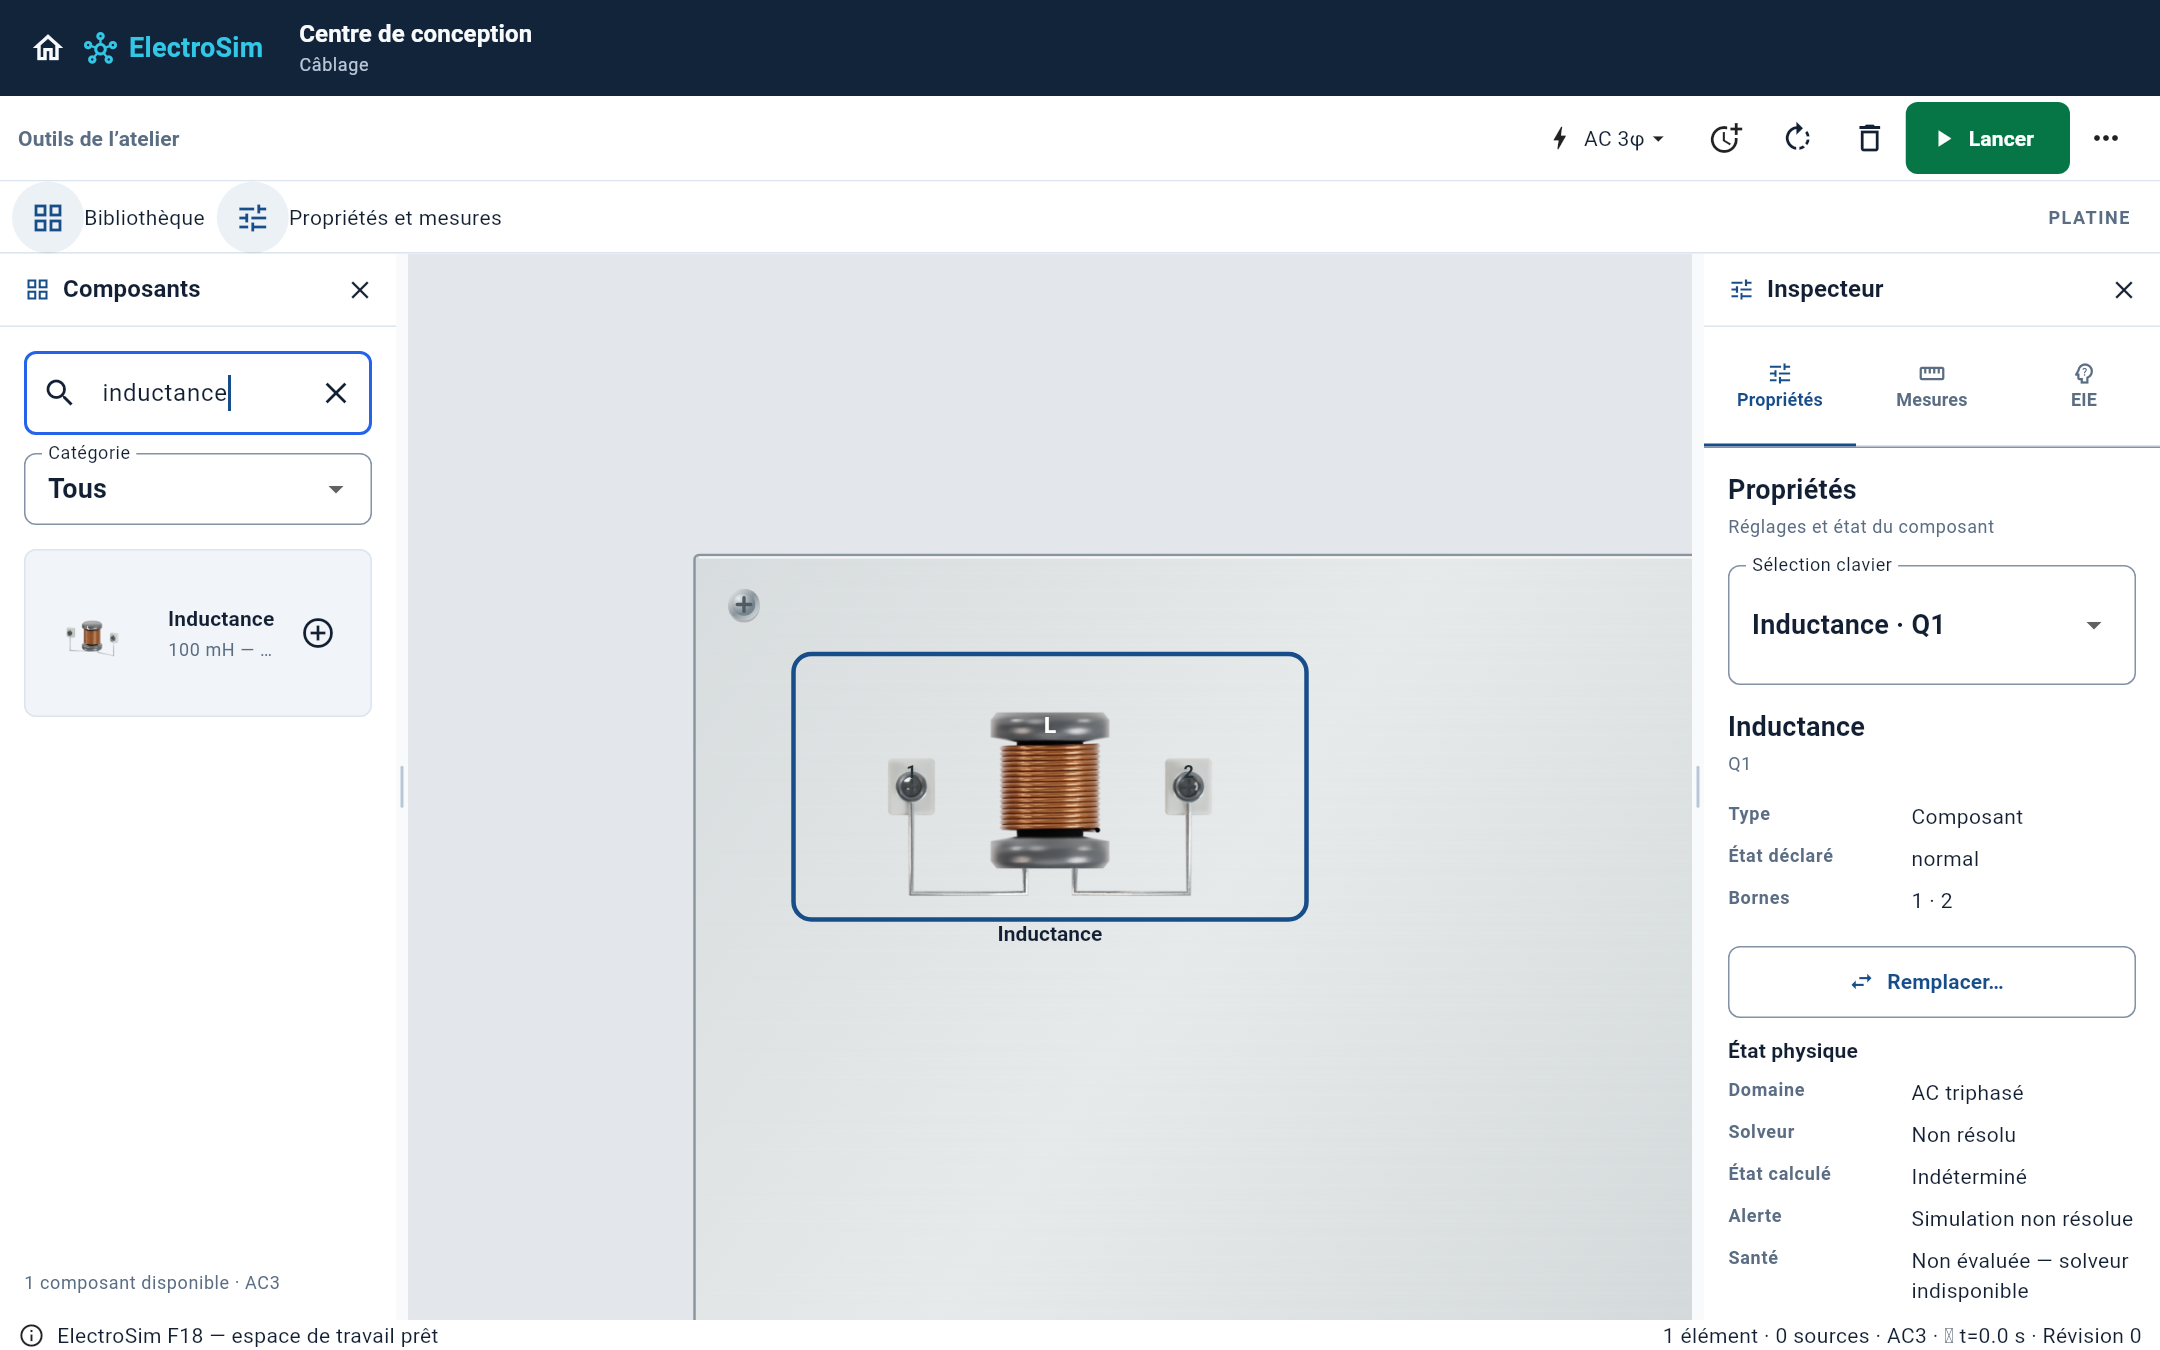
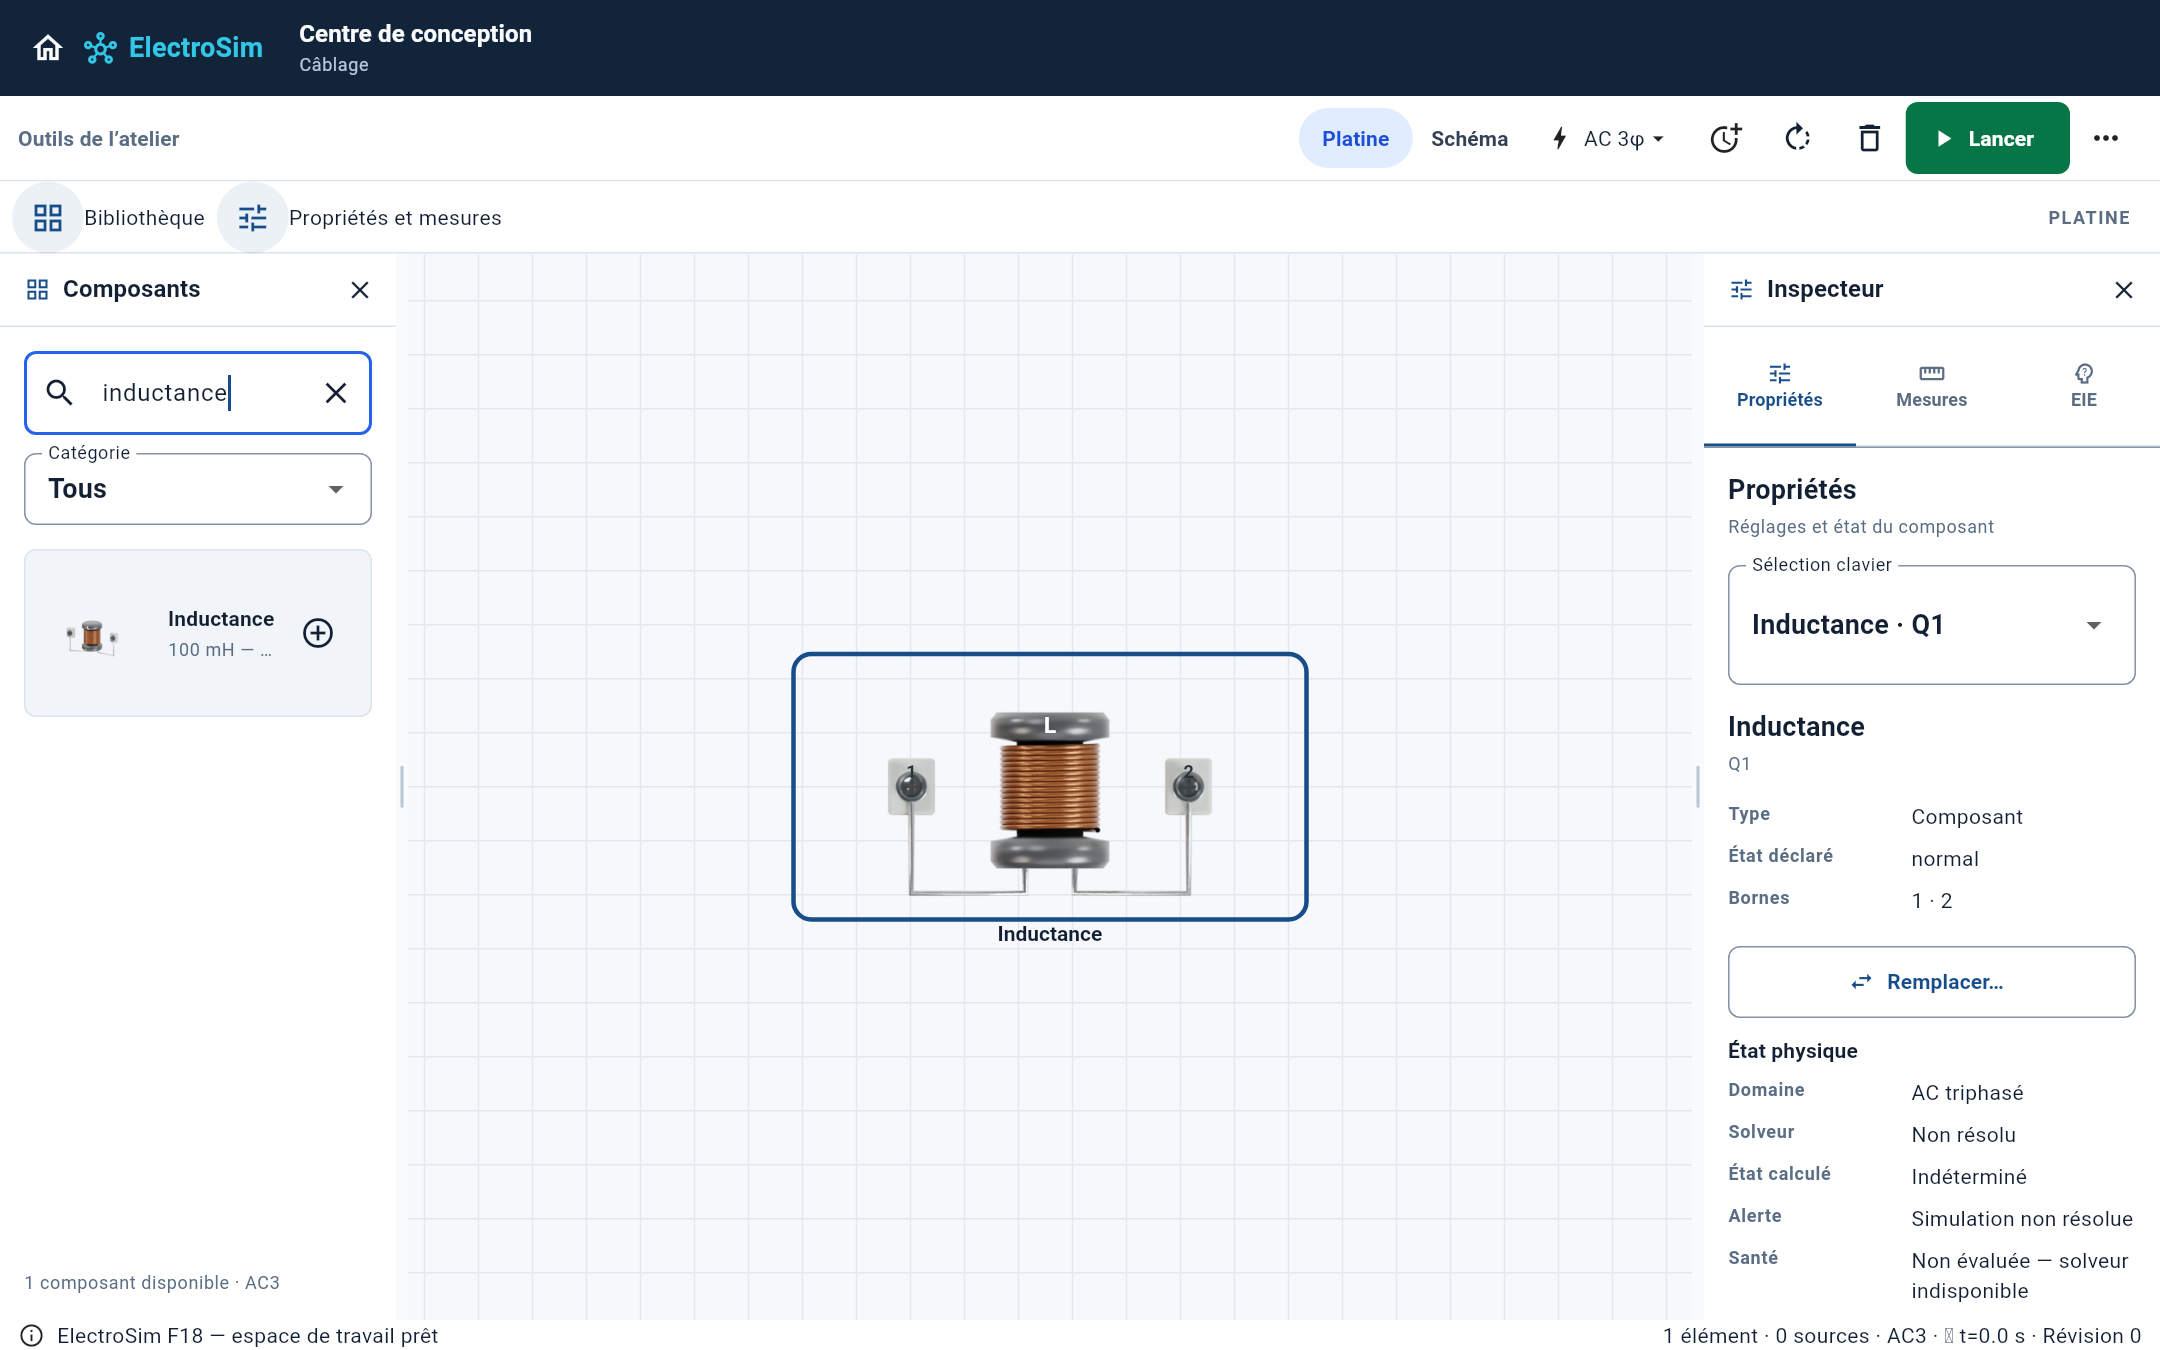
docs(g5): qualify passive renders on current P3 base and add Mac build

Changed region(s): [[0.5894, 0.56, 0.8065, 0.9956], [0.3102, 0.4044, 0.4963, 0.7467], [0.5894, 0.0622, 0.6824, 0.1244]]

diff --git a/docs/g5-industrial-passives/catalogue-status.md b/docs/g5-industrial-passives/catalogue-status.md
@@ -8,6 +8,8 @@
 |---|---|---|---|---|
 | instrument-voltmeter | Voltmètre physique | physical_voltmeter | physical_voltmeter | Rendu antérieur — à comparer/améliorer |
 | instrument-ammeter | Ampèremètre physique | physical_ammeter | physical_ammeter | Rendu antérieur — à comparer/améliorer |
+| instrument-frequency | Fréquencemètre physique | physical_frequency_meter | physical_frequency_meter | Rendu antérieur — à comparer/améliorer |
+| instrument-phase-sequence | Contrôleur d’ordre des phases | physical_phase_sequence_tester | physical_phase_sequence_tester | Rendu antérieur — à comparer/améliorer |
 | source-dc-24v | Source CC 24 V | dc_voltage_source | dc_voltage_source | Rendu antérieur — à comparer/améliorer |
 | switch-no | Interrupteur NO | switch | switch | Rendu antérieur — à comparer/améliorer |
 | lamp | Lampe | lamp | lamp | Cycles : lamp |
@@ -53,6 +55,7 @@
 | source-ac3-l2 | Réseau triphasé — L2 | ac_voltage_source | ac_voltage_source | Rendu antérieur — à comparer/améliorer |
 | source-ac3-l3 | Réseau triphasé — L3 | ac_voltage_source | ac_voltage_source | Rendu antérieur — à comparer/améliorer |
 | pv-array | Champ photovoltaïque | pv_array | pv_array | Rendu antérieur — à comparer/améliorer |
+| pv-array-high-voltage | Champ photovoltaïque haute tension | pv_array | pv_array | Rendu antérieur — à comparer/améliorer |
 | pv-controller-mppt | Régulateur solaire MPPT | pv_controller | pv_controller | Rendu antérieur — à comparer/améliorer |
 | pv-controller-pwm | Régulateur solaire PWM | pv_controller | pv_controller | Rendu antérieur — à comparer/améliorer |
 | pv-battery | Batterie photovoltaïque | pv_battery | pv_battery | Rendu antérieur — à comparer/améliorer |
@@ -66,7 +69,7 @@
 | capacitor | Condensateur | capacitor | capacitor | Cycles : capacitor-film |
 | inductor | Inductance | inductor | inductor | Cycles : inductor-drum |
 | impedance | Impédance | impedance | impedance | Rendu antérieur — à comparer/améliorer |
-| rcd-2p-ac1 | Différentiel 2P AC | rcd_2p_ac1 | rcd_2p_ac1 | Painter 3D différentiel existant |
+| rcd-2p-ac1 | Différentiel 2P AC | rcd_2p_ac1 | rcd_2p_ac1 | Rendu antérieur — à comparer/améliorer |
 | breaker-ac1 | Disjoncteur AC 1φ | breaker_ac1 | breaker_ac1 | Cycles : breaker1 |
 | fuse-ac1 | Fusible AC 1φ | fuse_ac1 | fuse_ac1 | Cycles : fuse-holder |
 | aux-contact-no | Contact auxiliaire NO | contactor_aux_no | contactor_aux_no | Cycles : auxiliary-no |
@@ -81,6 +84,4 @@
 | terminal-block-5 | Bornier L1/L2/L3/N/PE | terminal_block_5 | terminal_block_5 | Cycles : terminal5 |
 | thermal-overload-3p | Relais thermique 3P | thermal_overload_3p | thermal_overload_3p | Cycles : overload |
 
-Inventaire : **74 entrées**, **30 entrées utilisant les plaques Cycles** et **23 géométries Cycles distinctes** dans le chargeur. Une géométrie peut desservir plusieurs variantes.
-
-Preuves : `../g5-industrial-photo-reference/`, `../g5-industrial-next/`, `../g5-industrial-receivers/` et `../g5-industrial-passives/`. Les sources idéales et charges abstraites nécessitent une représentation pédagogique explicite, pas un faux appareil commercial.
+77 entrées de production, dont 30 entrées avec plaques Cycles ; 23 géométries partagées.

diff --git a/docs/g5-industrial-passives/README.md b/docs/g5-industrial-passives/README.md
@@ -1,6 +1,7 @@
 # Passifs — résistance, condensateur et inductance
 
-Ce lot poursuit la PR 72 sur la branche industrielle séparée. Il ajoute trois
+Ce lot est isolé sur `feat/g5-passive-realism-20261010`, à partir du commit
+`4b083fd` de la branche industrielle récente, qui a intégré la PR 72. Il ajoute trois
 géométries originales Cycles : vue en perspective dans la palette, vue frontale
 sur la platine métallisée. Aucune fusion n'est effectuée.
 
@@ -52,14 +53,15 @@ Ces appareils passifs ne sont pas représentés comme des modules DIN.
 
 ## Reproduction
 
-Qualification du lot : **428 tests application réussis**, **quatre tests de
-captures réussis**, analyse Dart sans problème et gardes architecture/P1
-réussies. La compilation Web release de l'entrée de production `lib/main.dart`
-a réussi. Les références visuelles électriques existantes sont conservées,
-sans mise à jour des goldens. La compilation native Mac n'est pas déduite de
-ce build Web et reste à confirmer par son workflow.
+Qualification sur cette base : **544 tests application réussis**, deux tests
+ignorés par la suite existante, **quatre tests de captures réussis** et analyse
+Dart sans problème. La compilation Web release de `lib/main.dart` a réussi
+avec les sources application et packages de cette base. Les goldens existants
+n'ont pas été modifiés. Le garde `core_unify_architecture_guard.py` réussit.
+Les anciens gardes F9/P1 signalent des écarts sur cette base ; ils ne sont pas
+présentés comme réussis. La compilation native Mac reste à confirmer par CI.
 
-L'[inventaire du catalogue](catalogue-status.md) distingue les 74 entrées,
+L'[inventaire du catalogue](catalogue-status.md) distingue les 77 entrées,
 les 30 entrées utilisant les plaques Cycles et les 23 géométries partagées.
 
 Depuis `apps/electrosim` :
